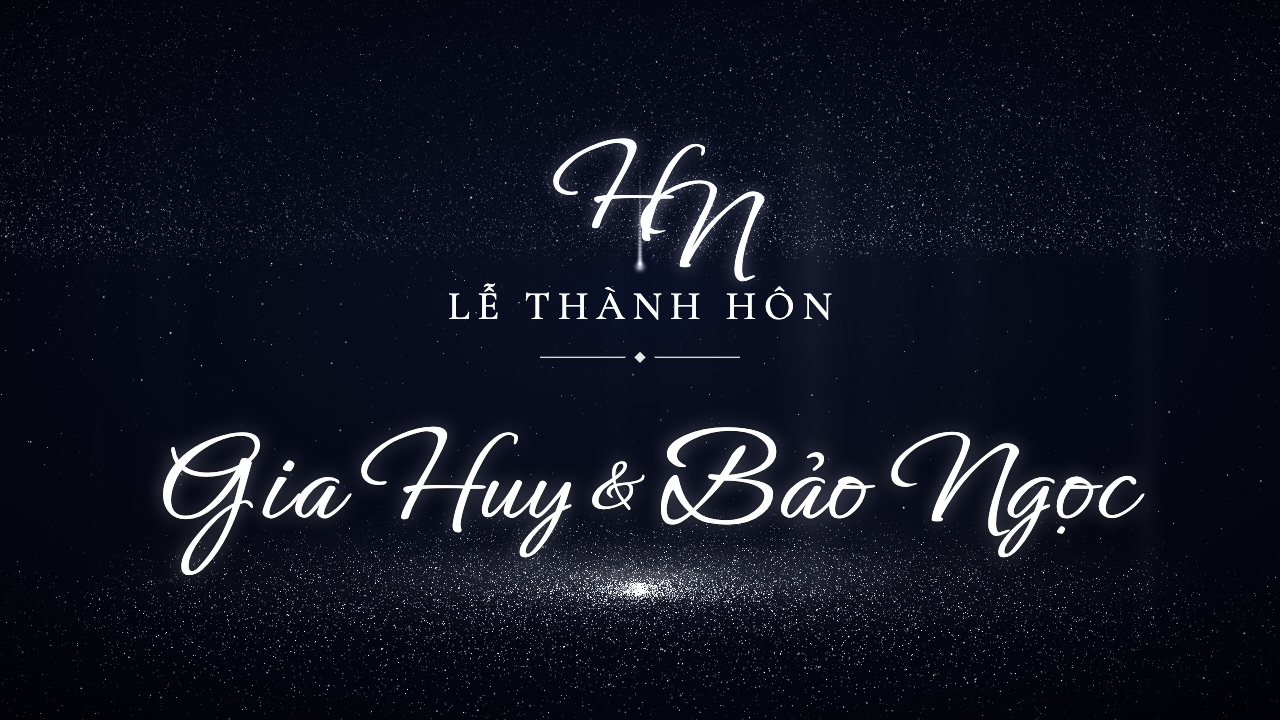
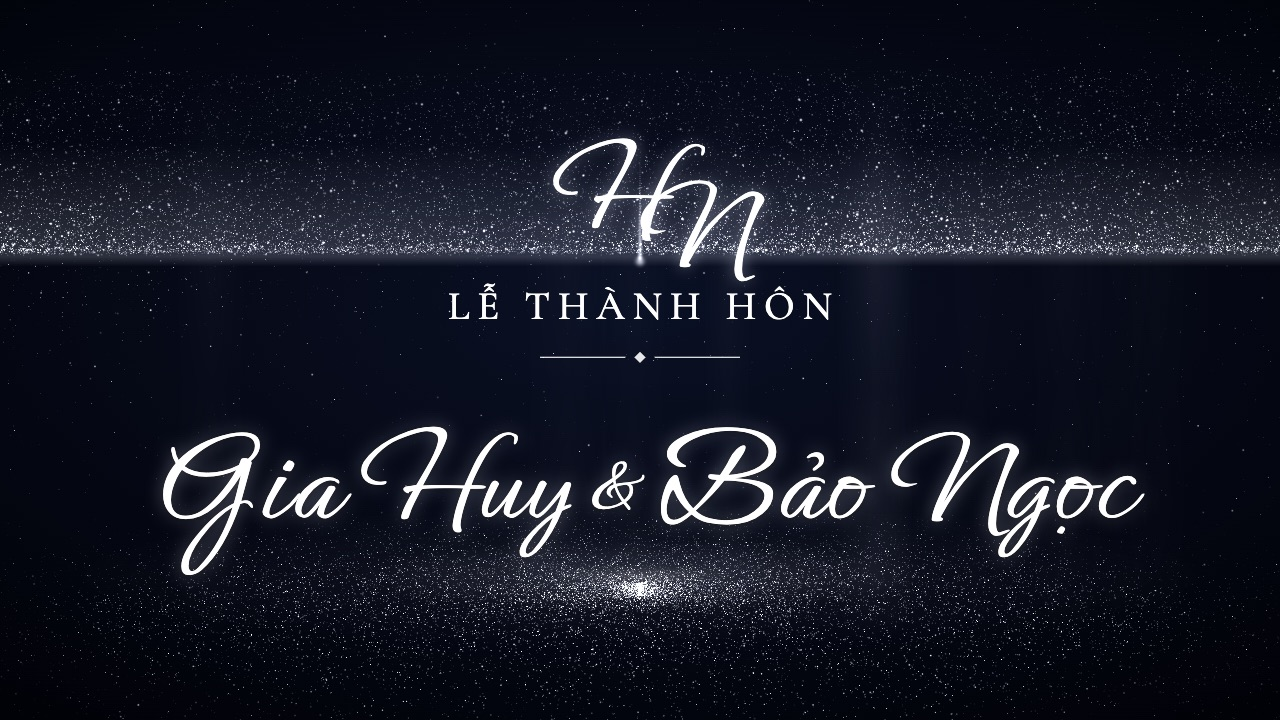
Màn LED "Đêm sao băng": dải trần giống bản mẫu hơn — kim tuyến dồn thành một dải dày gọn ngay trên mép dưới (hạt to rõ hơn, sáng hơn), mép dưới rõ nhưng mềm, có lớp sương xanh mờ phía sau; nhịp sáng-mờ nhẹ hơn để dải không bị nhạt

diff --git a/public/led/led.js b/public/led/led.js
@@ -254,6 +254,11 @@
         ctx.drawImage(this.core, W / 2 - W * 0.45, floor - H * 0.1, W * 0.9, H * 0.2);
         if (!this.useGl) { ctx.globalAlpha = 0.22; ctx.drawImage(this.core, W / 2 - W * 0.55, top - H * 0.045, W * 1.1, H * 0.09); }
         // kim tuyến: 4 tấm đổi độ sáng lệch pha + trôi ngang rất chậm ngược chiều nhau → lấp lánh, có chiều sâu
+        if (this.mode === 'saobang' && this.useGl) { // sương sáng xanh mờ phía sau dải kim tuyến trần, đậm nhất ngay trên mép dưới
+          var y0 = H * 0.2, y1 = H * 0.37, gh = ctx.createLinearGradient(0, y0, 0, y1);
+          gh.addColorStop(0, rgba(pal.particle, 0)); gh.addColorStop(0.7, rgba(pal.particle, 0.16)); gh.addColorStop(0.92, rgba(pal.particle, 0.2)); gh.addColorStop(1, rgba(pal.particle, 0));
+          ctx.globalAlpha = 0.85 + 0.15 * Math.sin(t * 0.3 * sp); ctx.fillStyle = gh; ctx.fillRect(0, y0, W, y1 - y0);
+        }
         if (this.useGl && GLFX.gl) GLFX.draw(dt);
         else for (i = 0; i < this.layers.length; i++) {
           var l = this.layers[i], ox = Math.sin(t * 0.05 * sp + l.ph) * l.dx * (W / 1600);
@@ -621,7 +626,7 @@
     VS_PTS: 'attribute vec4 aP;uniform float uT,uAsp,uPx;uniform vec3 uRip[8];uniform vec4 uRp;uniform vec3 uCen;uniform vec2 uSt;uniform vec3 uXf;uniform float uCeil;varying float vA;' +
       'void main(){float seed=aP.z;float tw=pow(0.5+0.5*sin(uT*(1.2+seed*3.7)+seed*61.0),3.0);' +
       'if(aP.w>4.5){gl_Position=vec4(aP.xy,0.0,1.0);float e=aP.y-0.3;float big=step(0.97,fract(seed*29.0));' +
-      'gl_PointSize=uPx*(1.4+2.6*fract(seed*7.3)+big*3.0);float br=0.45+0.55*(0.5+0.5*sin(uT*0.35+aP.x*2.2+sin(uT*0.21+aP.x*1.3)*1.5));vA=(0.35+0.8*tw)*(0.35+0.8*exp(-max(e,0.0)*3.0)+big*0.4)*smoothstep(-0.1,0.07,e)*br*0.8;return;}' +
+      'gl_PointSize=uPx*(2.0+3.8*fract(seed*7.3)*fract(seed*3.9)+big*4.0);float br=0.72+0.28*(0.5+0.5*sin(uT*0.35+aP.x*2.2+sin(uT*0.21+aP.x*1.3)*1.5));vA=(0.4+0.9*tw)*(0.4+1.2*exp(-max(e,0.0)*7.0)+big*0.5)*smoothstep(-0.035,0.03,e)*br;return;}' +
       'if(aP.w>2.5){vec2 q=vec2(uXf.x*aP.x+uXf.y*aP.y,-uXf.y*aP.x+uXf.x*aP.y)/uXf.z;gl_Position=vec4(q.x/uAsp,q.y,0.0,1.0);float dust=step(3.5,aP.w);float bg=step(0.975,fract(seed*29.0))*(1.0-dust);' +
       'gl_PointSize=uPx*(mix(2.0,1.5,dust)+mix(3.0,2.0,dust)*fract(seed*7.3)+bg*4.5);vA=(0.3+0.7*tw)*(0.7+0.6*fract(seed*3.1)+bg*0.6)*mix(1.0,0.75,dust);return;}' +
       'if(aP.w>1.5){gl_Position=vec4(aP.xy,0.0,1.0);float big=step(0.965,fract(seed*29.0));gl_PointSize=uPx*(1.3+2.2*fract(seed*7.3)+big*3.5);vA=(0.18+0.82*tw)*(0.55+0.45*fract(seed*3.1)+big*0.5);return;}' +
@@ -709,7 +714,7 @@
         else if (this.mode === 'saobang') { disc(Math.round(20000 * dens), 0, 2.2, 1.25); disc(Math.round(10000 * dens), 0, 3.0); } // Đêm sao băng: sàn dồn sáng ở tâm
         else disc(Math.round(34000 * dens), 0, 3.0);
         if (this.mode === 'saobang') { // dải trần phẳng: mép dưới thẳng ngang (y = 0.3), hạt dày ở mép rồi thưa dần lên trên
-          for (i = 0; i < Math.round(30000 * dens); i++) a.push(rnd(-1.02, 1.02), 0.3 + Math.pow(Math.random(), 1.4) * 0.75 + (Math.random() + Math.random() - 1) * 0.05, Math.random(), 5);
+          for (i = 0; i < Math.round(24000 * dens); i++) a.push(rnd(-1.02, 1.02), 0.3 + Math.pow(Math.random(), 2.4) * 0.5 + (Math.random() + Math.random() - 1) * 0.012, Math.random(), 5);
         } else disc(Math.round((this.mode === 'saoroi' ? 16000 : 24000) * dens), 1, 3.0); // trần (Đêm sao băng: dải trần dày, sáng)
         for (i = 0; i < Math.round(2600 * dens); i++) a.push(rnd(-1, 1), rnd(-1, 1), Math.random(), 2); // sao rải khắp trời
         for (i = 0; i < Math.round(2600 * dens); i++) { // dải ngân hà: sao dồn quanh một đường chéo qua nửa trên màn
